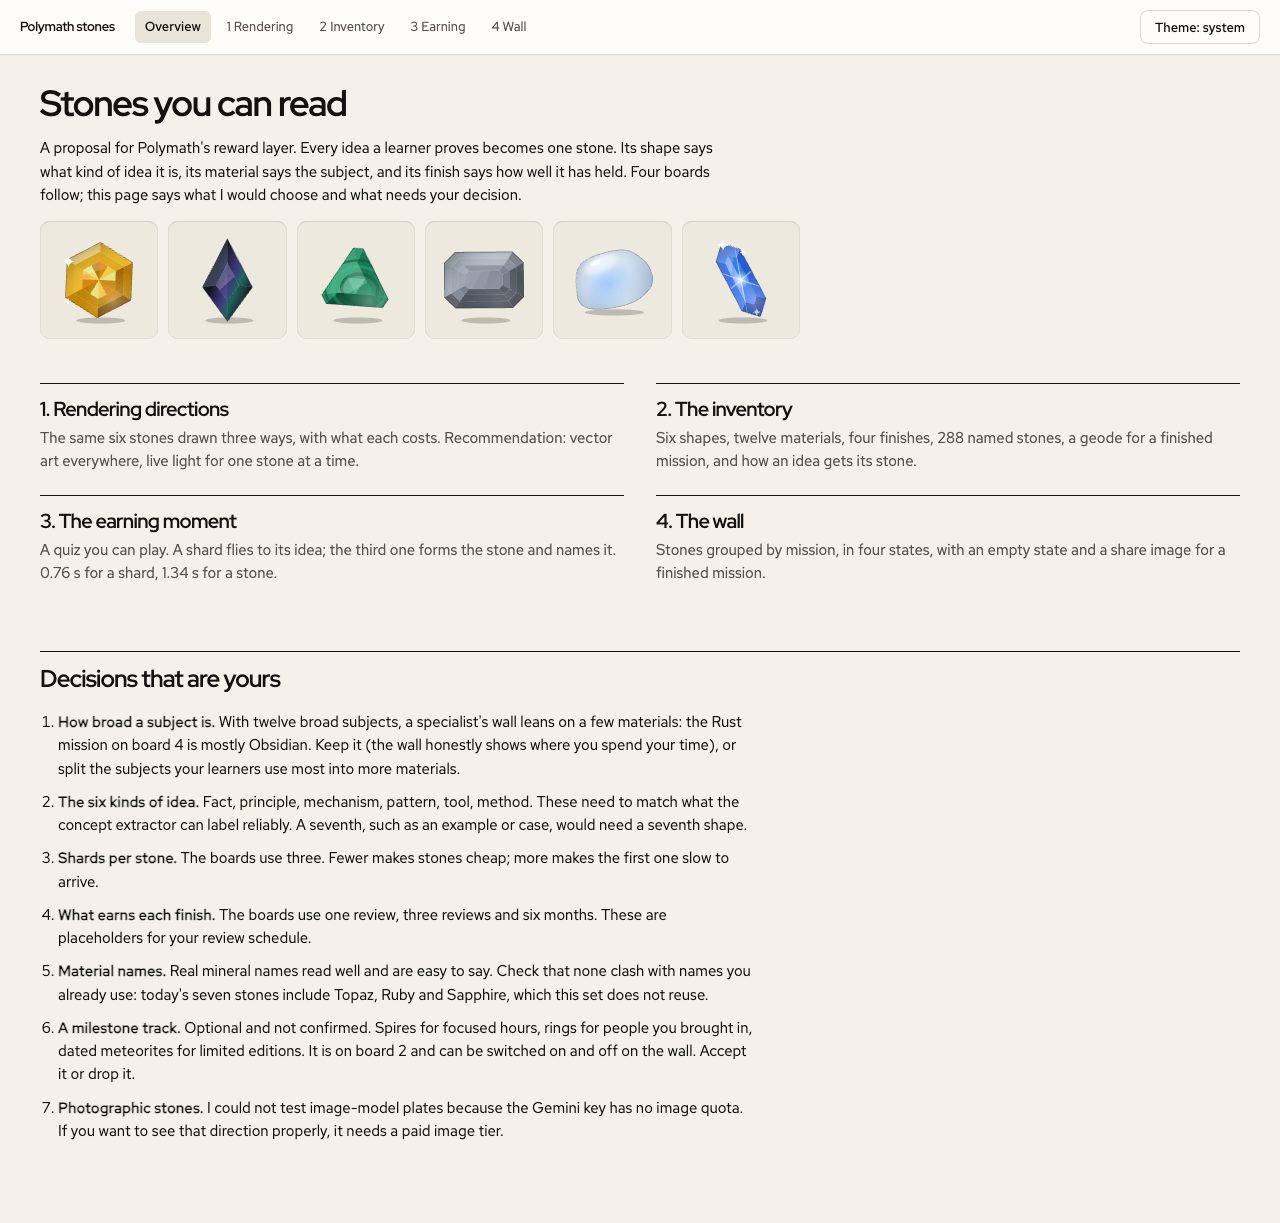
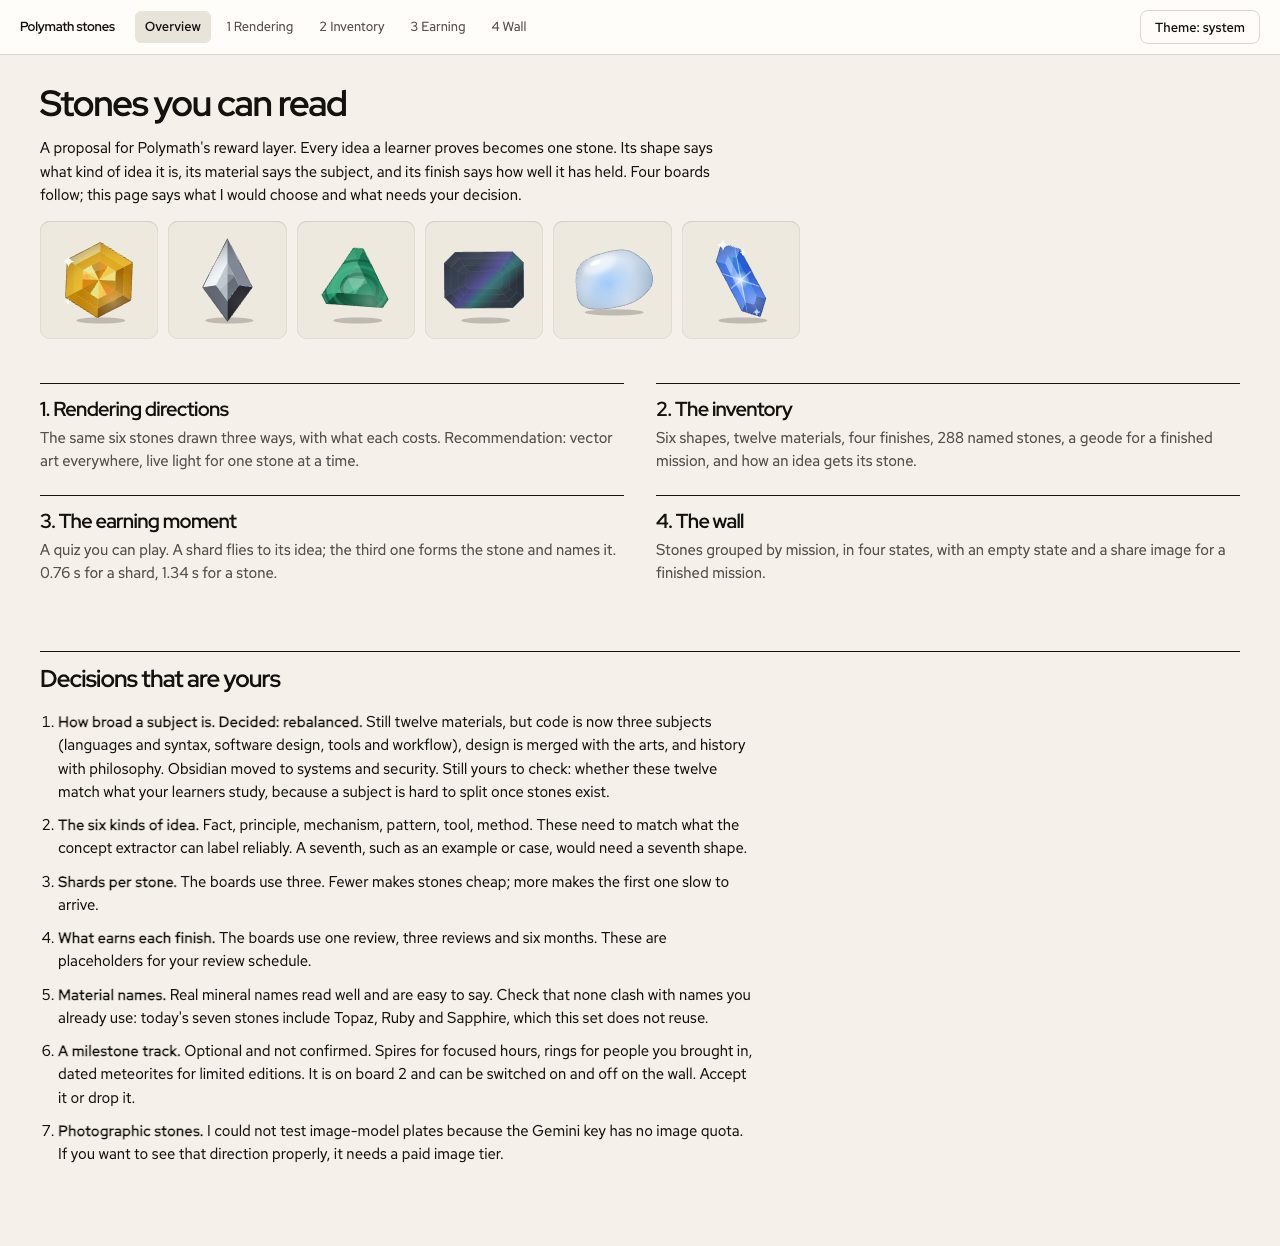
Stones: rebalance the twelve subjects toward what learners study
Code is now three subjects (languages and syntax, software design, tools and
workflow), design is merged with the arts and history with philosophy, and
Obsidian moves to systems and security, so a developer's wall is no longer
mostly one dark material. Sample data, board copy and screenshots updated.

Committed with --no-verify (the hook cannot re-stage gitignored paths);
prettier, eslint and size checks pass.

diff --git a/mockups/stones/lib/stones.js b/mockups/stones/lib/stones.js
@@ -76,17 +76,17 @@
   ];
   // Material = the subject it belongs to. Palettes run darkest first.
   const MATERIALS = [
-    { key: "obsidian", name: "Obsidian", subject: "Code and languages", look: "glass", pal: ["#07080c", "#161a24", "#2a3140", "#5d6c88", "#b6cfe0"], accent: "#7a5cff", accent2: "#2fd6c0", why: "Dark, sharp glass." },
-    { key: "hematite", name: "Hematite", subject: "Systems and infrastructure", look: "metal", pal: ["#16181d", "#343a44", "#6b7380", "#aab2bd", "#f1f4f8"], accent: "#8fa3c2", why: "Iron, the stuff of machines." },
+    { key: "amethyst", name: "Amethyst", subject: "Languages and syntax", look: "clear", pal: ["#260d4f", "#51229c", "#8649d9", "#bc90f6", "#f0e3ff"], accent: "#ff8ad8", why: "Many small faces, one crystal." },
+    { key: "peridot", name: "Peridot", subject: "Software design", look: "clear", pal: ["#33420a", "#637f10", "#9cbf22", "#cfe566", "#f8ffcc"], accent: "#ffd84a", why: "Clean, bright and well cut." },
+    { key: "hematite", name: "Hematite", subject: "Tools and workflow", look: "metal", pal: ["#16181d", "#343a44", "#6b7380", "#aab2bd", "#f1f4f8"], accent: "#8fa3c2", why: "Iron, the stuff of tools." },
+    { key: "obsidian", name: "Obsidian", subject: "Systems and security", look: "glass", pal: ["#07080c", "#161a24", "#2a3140", "#5d6c88", "#b6cfe0"], accent: "#7a5cff", accent2: "#2fd6c0", why: "Dark, sharp glass." },
     { key: "azurite", name: "Azurite", subject: "Data and AI", look: "clear", pal: ["#071a5e", "#1436a6", "#2a5be0", "#74a0ff", "#d6e4ff"], accent: "#59e0ff", why: "Deep water." },
     { key: "fluorite", name: "Fluorite", subject: "Maths and logic", look: "clear", pal: ["#083f45", "#107874", "#2fb3a3", "#8de3cf", "#e6fff6"], accent: "#8a6cf0", why: "Grows in perfect cubes." },
     { key: "malachite", name: "Malachite", subject: "Science and nature", look: "banded", pal: ["#042a1b", "#0a5236", "#168457", "#52c08e", "#c6f2d6"], accent: "#0a3f2a", why: "Growth rings in green." },
-    { key: "peridot", name: "Peridot", subject: "Arts and music", look: "clear", pal: ["#33420a", "#637f10", "#9cbf22", "#cfe566", "#f8ffcc"], accent: "#ffd84a", why: "A bright, high note." },
     { key: "amber", name: "Amber", subject: "Writing and language", look: "clear", pal: ["#552503", "#9a5205", "#dc8c0c", "#f7bf45", "#fff1bd"], accent: "#ff6a1f", why: "Keeps what it holds." },
     { key: "copper", name: "Copper", subject: "Business and strategy", look: "metal", pal: ["#3d160a", "#823415", "#c26536", "#eda67b", "#ffe6d3"], accent: "#3fa796", why: "The metal of trade." },
-    { key: "jasper", name: "Jasper", subject: "History and society", look: "banded", pal: ["#350d08", "#742213", "#ad4229", "#d98a5a", "#f4d6ad"], accent: "#d9a441", why: "Old earth, laid down in layers." },
-    { key: "coral", name: "Coral", subject: "Design and craft", look: "milky", pal: ["#77192b", "#bf3d57", "#ee7187", "#ffaab4", "#ffe6e7"], accent: "#ffd0a8", why: "Built by many small hands." },
-    { key: "amethyst", name: "Amethyst", subject: "Philosophy and ideas", look: "clear", pal: ["#260d4f", "#51229c", "#8649d9", "#bc90f6", "#f0e3ff"], accent: "#ff8ad8", why: "Long prized for a clear head." },
+    { key: "coral", name: "Coral", subject: "Design and the arts", look: "milky", pal: ["#77192b", "#bf3d57", "#ee7187", "#ffaab4", "#ffe6e7"], accent: "#ffd0a8", why: "Built by many small hands." },
+    { key: "jasper", name: "Jasper", subject: "History and ideas", look: "banded", pal: ["#350d08", "#742213", "#ad4229", "#d98a5a", "#f4d6ad"], accent: "#d9a441", why: "Old earth, laid down in layers." },
     { key: "moonstone", name: "Moonstone", subject: "People and mind", look: "milky", pal: ["#56688a", "#8fa3c2", "#c7d5ea", "#edf3fb", "#ffffff"], accent: "#6fb0ff", why: "Lit from the inside." },
   ];
   // Finish = how well the idea has held up. It only ever goes up.

diff --git a/mockups/stones/1-rendering.html b/mockups/stones/1-rendering.html
@@ -162,7 +162,7 @@
   }
 
   // C: existing plates, varied by code
-  const plates = [["topaz", "", "brilliant"], ["garnet", "grayscale(1) brightness(.55) contrast(1.5)", "polished"], ["ruby", "hue-rotate(150deg) saturate(.9)", "polished"], ["diamond", "brightness(.72) contrast(1.35)", "cut"], ["diamond", "sepia(1) hue-rotate(175deg) saturate(.7) brightness(1.05)", "polished"], ["ruby", "hue-rotate(238deg) saturate(1.1)", "star"]];
+  const plates = [["topaz", "", "brilliant"], ["diamond", "brightness(.72) contrast(1.35)", "polished"], ["ruby", "hue-rotate(150deg) saturate(.9)", "polished"], ["garnet", "grayscale(1) brightness(.55) contrast(1.5)", "cut"], ["diamond", "sepia(1) hue-rotate(175deg) saturate(.7) brightness(1.05)", "polished"], ["ruby", "hue-rotate(238deg) saturate(1.1)", "star"]];
   const glint = (x, y, s) => `<path d="M${x},${y - s}Q${x + 1},${y - 1} ${x + s},${y}Q${x + 1},${y + 1} ${x},${y + s}Q${x - 1},${y + 1} ${x - s},${y}Q${x - 1},${y - 1} ${x},${y - s}Z" fill="#fff"/>`;
   document.getElementById("row-c").innerHTML = D.SAMPLES.map((c, i) => {
     const [p, filter, fin] = plates[i];
@@ -173,9 +173,9 @@
   const base = "Studio product photograph of a single mineral specimen, seen from directly above, centred, filling about 70 percent of a square frame. Soft diffuse light from the upper left, one crisp highlight. Perfectly flat pure white background, no shadow, no text, no props.";
   document.getElementById("prompts").textContent = [
     "Amber Prism: a hexagonal step-cut gemstone of honey-yellow amber, transparent, concentric hexagonal facets and a small flat hexagonal top, a few tiny inclusions.",
-    "Obsidian Point: a knapped spearhead of black volcanic glass, a tall kite outline with its narrow tip pointing up, glossy, faint violet and teal sheen.",
+    "Hematite Point: a spearhead of polished grey hematite, a tall kite outline with its narrow tip pointing up, steel lustre.",
     "Malachite Delta: a triangular cut stone of green malachite with clipped corners and bevelled edges, opaque, concentric dark and light green bands.",
-    "Hematite Terrace: a rectangular step-cut stone with clipped corners in polished grey hematite, steel lustre, wider than tall.",
+    "Obsidian Terrace: a rectangular step-cut stone with clipped corners in black volcanic glass, glossy, faint violet and teal sheen, wider than tall.",
     "Moonstone Pebble: a smooth oval tumbled moonstone, milky and translucent with a soft blue glow inside, no facets, wider than tall.",
     "Azurite Baton: a long slim hexagonal baguette-cut gemstone of deep blue azurite with pointed ends, lying diagonally.",
   ].join("\n") + "\n\nAppended to each: " + base;

diff --git a/mockups/stones/lib/data.js b/mockups/stones/lib/data.js
@@ -5,9 +5,9 @@
   const c = (id, name, kind, subject, finish, extra) => Object.assign({ id, name, kind, subject, finish }, extra || {});
   const SAMPLES = [
     c("c-show", "Show, don't tell", "prism", "amber", "brilliant"),
-    c("c-bisect", "git bisect", "point", "obsidian", "polished"),
+    c("c-bisect", "git bisect", "point", "hematite", "polished"),
     c("c-loops", "Feedback loops", "delta", "malachite", "polished"),
-    c("c-tcp", "TCP handshake", "terrace", "hematite", "cut"),
+    c("c-tcp", "TCP handshake", "terrace", "obsidian", "cut"),
     c("c-memory", "Working memory holds about four items", "pebble", "moonstone", "polished"),
     c("c-cv", "Cross-validation", "baton", "azurite", "star"),
   ];
@@ -15,15 +15,15 @@
     {
       id: "m-rust", name: "Ship a Rust command-line tool", date: "Due 12 Dec", done: false,
       concepts: [
-        c("r1", "Ownership moves by default", "prism", "obsidian", "brilliant", { reviews: 4, next: "in 23 days" }),
-        c("r2", "Borrow checker", "terrace", "obsidian", "polished", { ready: true, reviews: 1, next: "today" }),
-        c("r3", "Exponential backoff", "delta", "hematite", "polished", { reviews: 2, next: "in 6 days" }),
+        c("r1", "Ownership moves by default", "prism", "amethyst", "brilliant", { reviews: 4, next: "in 23 days" }),
+        c("r2", "Borrow checker", "terrace", "amethyst", "polished", { ready: true, reviews: 1, next: "today" }),
+        c("r3", "Exponential backoff", "delta", "obsidian", "polished", { reviews: 2, next: "in 6 days" }),
         c("r4", "Big-O notation", "point", "fluorite", "star", { reviews: 9, next: "in 4 months" }),
-        c("r5", "git bisect", "point", "obsidian", "cut", { reviews: 0, next: "in 2 days" }),
-        c("r6", "Exit codes: 0 means success", "pebble", "hematite", "polished", { ready: true, reviews: 1, next: "today" }),
-        c("r7", "Test-driven development", "baton", "obsidian", "cut", { reviews: 0, next: "tomorrow" }),
-        c("r8", "Builder pattern", "delta", "obsidian", "cut", { shards: 2 }),
-        c("r9", "Closures capture their environment", "terrace", "obsidian", "cut", { shards: 1 }),
+        c("r5", "git bisect", "point", "hematite", "cut", { reviews: 0, next: "in 2 days" }),
+        c("r6", "Exit codes: 0 means success", "pebble", "obsidian", "polished", { ready: true, reviews: 1, next: "today" }),
+        c("r7", "Test-driven development", "baton", "hematite", "cut", { reviews: 0, next: "tomorrow" }),
+        c("r8", "Builder pattern", "delta", "peridot", "cut", { shards: 2 }),
+        c("r9", "Closures capture their environment", "terrace", "amethyst", "cut", { shards: 1 }),
       ],
     },
     {

diff --git a/mockups/stones/2-inventory.html b/mockups/stones/2-inventory.html
@@ -150,7 +150,7 @@
             <tr><td>Decided by a hair</td><td>22 of 55 had the top two subjects within 0.02 of each other</td></tr>
             <tr><td>Same idea, reworded</td><td>Kept its material 5 times out of 8</td></tr>
           </tbody></table></div>
-        <p class="small">Typical misses: “Borrow checker” landed in design and craft, “Occam's razor” in maths, “Spaced repetition” in writing. The deeper problem is the third and fourth rows: a small change of wording, or a new embedding model, moves a stone to a different material, and a stone must never change.</p>
+        <p class="small">Typical misses (against the earlier subject list, before code was split in three): “Borrow checker” landed in design and craft, “Occam's razor” in maths, “Spaced repetition” in writing. The deeper problem is the third and fourth rows: a small change of wording, or a new embedding model, moves a stone to a different material, and a stone must never change.</p>
         <p class="small">The simpler rule wins. The model that pulls the idea out of the learner's material already reads the surrounding text, so it labels kind and subject there, the labels are stored, and the learner can correct one if it is wrong. Embeddings could still be used later to suggest neighbouring stones, but not to decide what a stone looks like.</p>
         <p class="small muted">Limits of the test: titles only, one-line descriptions as anchors, one run. Fuller text would score higher, but would not fix the instability. The Voyage key is also limited to three requests a minute until billing is added.</p>
       </div>

diff --git a/mockups/stones/index.html b/mockups/stones/index.html
@@ -33,7 +33,7 @@
   <section>
     <header><h2>Decisions that are yours</h2></header>
     <ol class="choices">
-      <li><b>How broad a subject is.</b> With twelve broad subjects, a specialist's wall leans on a few materials: the Rust mission on board 4 is mostly Obsidian. Keep it (the wall honestly shows where you spend your time), or split the subjects your learners use most into more materials.</li>
+      <li><b>How broad a subject is. Decided: rebalanced.</b> Still twelve materials, but code is now three subjects (languages and syntax, software design, tools and workflow), design is merged with the arts, and history with philosophy. Obsidian moved to systems and security. Still yours to check: whether these twelve match what your learners study, because a subject is hard to split once stones exist.</li>
       <li><b>The six kinds of idea.</b> Fact, principle, mechanism, pattern, tool, method. These need to match what the concept extractor can label reliably. A seventh, such as an example or case, would need a seventh shape.</li>
       <li><b>Shards per stone.</b> The boards use three. Fewer makes stones cheap; more makes the first one slow to arrive.</li>
       <li><b>What earns each finish.</b> The boards use one review, three reviews and six months. These are placeholders for your review schedule.</li>
